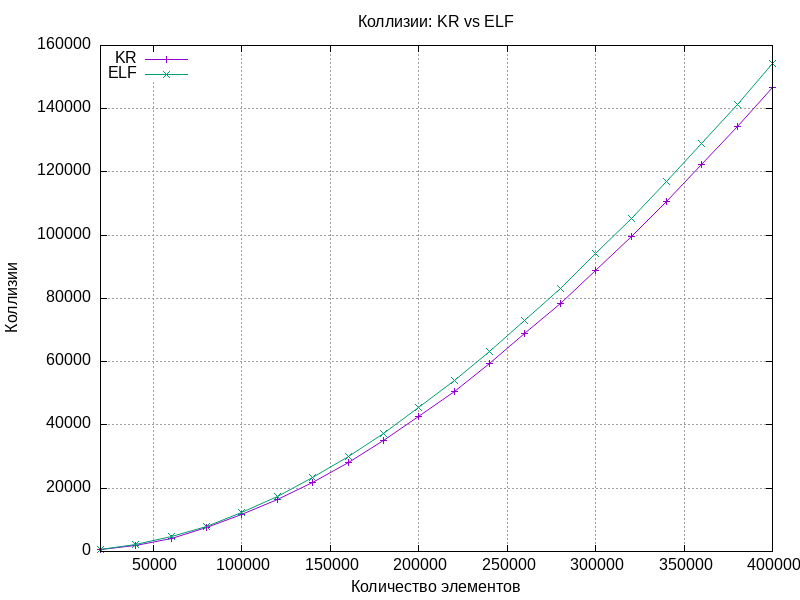
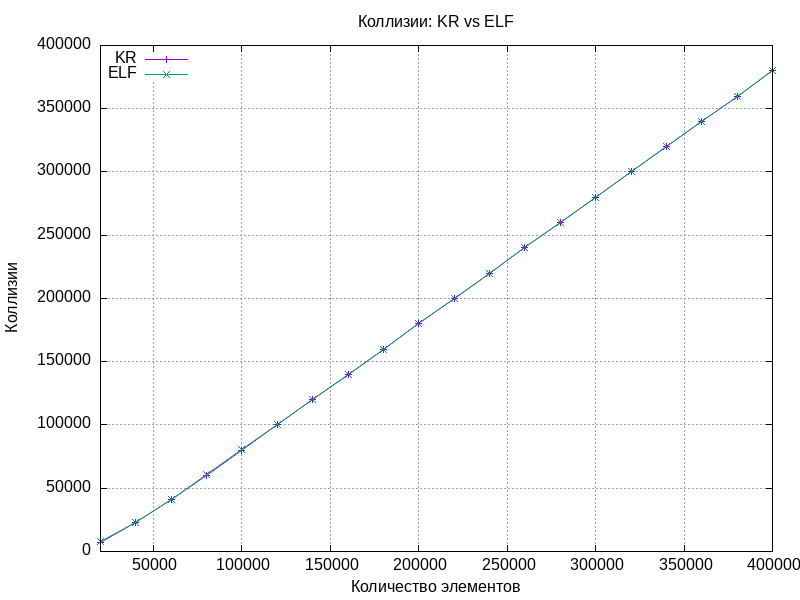
v0.5

diff --git a/hashtab.h b/hashtab.h
@@ -6,7 +6,7 @@
 #include <string.h>
 #include <stdio.h>
 
-#define HASH_SIZE 400000
+#define HASH_SIZE 20000
 
 struct listnode {
     char *key;

diff --git a/main1.c b/main1.c
@@ -145,8 +145,6 @@ int main()
 
 
     bstree_free(tree);
-    bstree_free(min);
-    bstree_free(max);
     hashtab_free(ht);
     return 0;
 }
